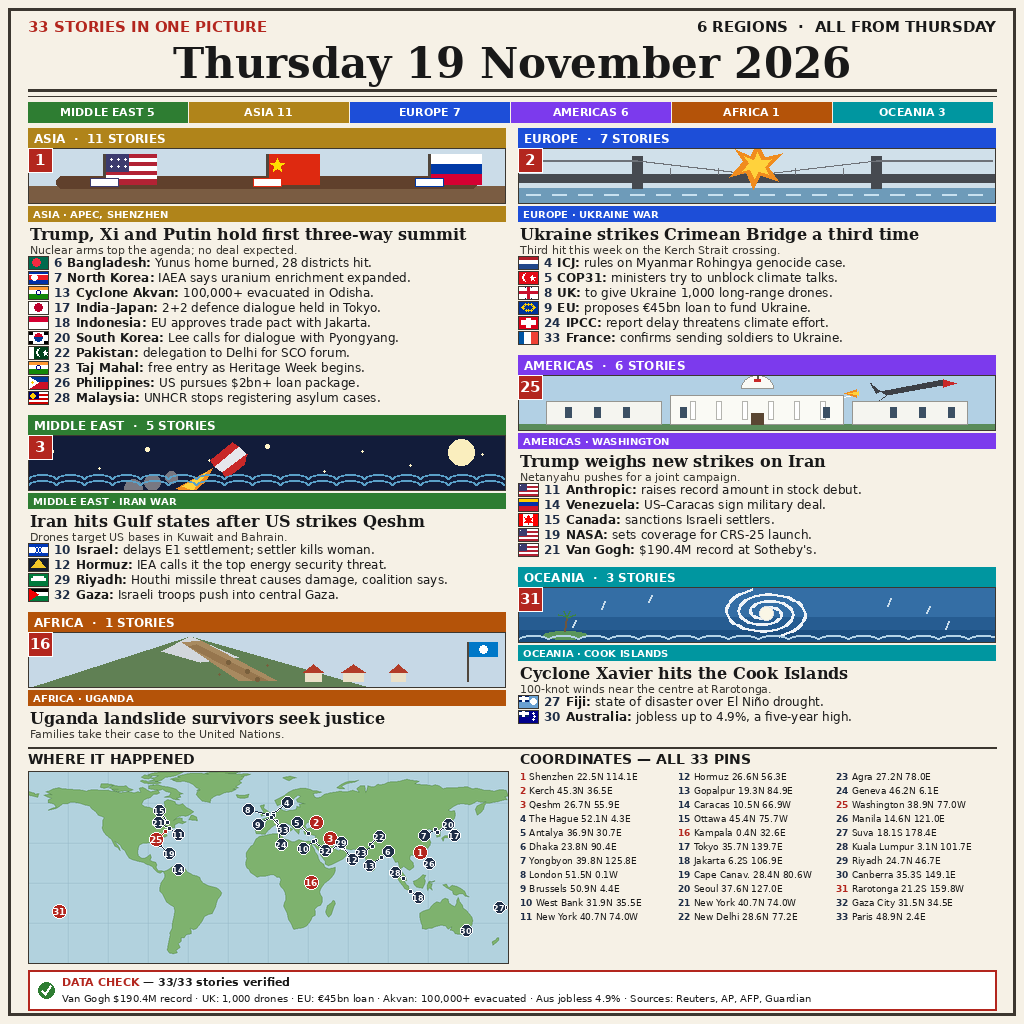
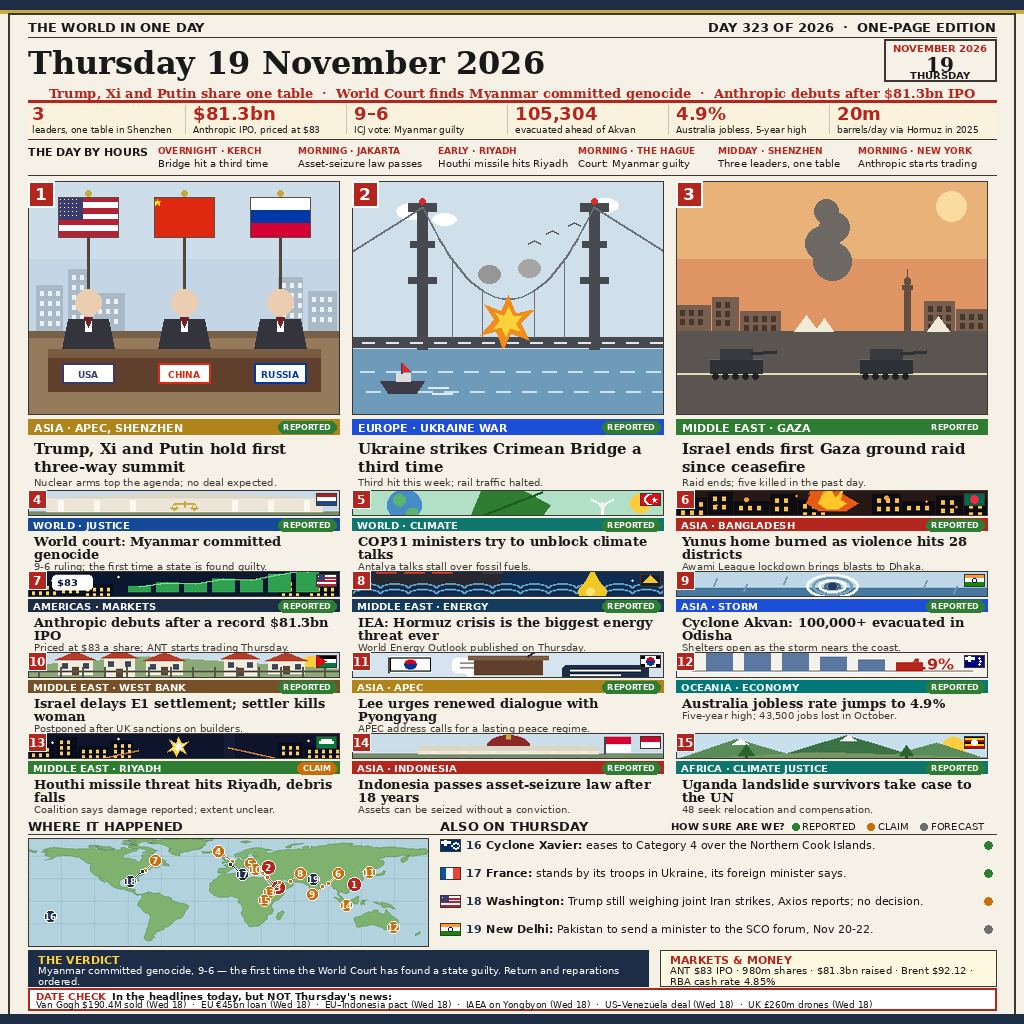
Replace entry with v3 newspaper entry

diff --git a/main.py b/main.py
@@ -1,23 +1,49 @@
 #!/usr/bin/env python3
-"""Copy entry.png to the grader output directory.
+"""Copy this entry's image to the grader output directory.
 
-The entry image is pre-rendered (see compose.py in the work directory);
-this program only places it where the grader expects it.
+Stdlib only. The entry image (entry.png, 1024x1024) lives next to this
+script in the repo; this script copies it byte-for-byte to
+MAKEFUN_OUTPUT_DIR (default /output) and never writes to the CWD.
 """
+import hashlib
 import os
 import shutil
+import sys
+
+HERE = os.path.dirname(os.path.abspath(__file__))
+SRC = os.path.join(HERE, "entry.png")
+
+
+def sha256_of(path):
+    h = hashlib.sha256()
+    with open(path, "rb") as f:
+        for chunk in iter(lambda: f.read(65536), b""):
+            h.update(chunk)
+    return h.hexdigest()
 
 
 def main():
-    """Copy entry.png next to this file into MAKEFUN_OUTPUT_DIR."""
-    src = os.path.join(os.path.dirname(os.path.abspath(__file__)),
-                       "entry.png")
+    if not os.path.isfile(SRC):
+        print(f"error: entry image not found next to this script: {SRC}",
+              file=sys.stderr)
+        return 1
     out_dir = os.environ.get("MAKEFUN_OUTPUT_DIR", "/output")
     os.makedirs(out_dir, exist_ok=True)
-    dest = os.path.join(out_dir, "entry.png")
-    shutil.copyfile(src, dest)
-    return dest
+    dst = os.path.join(out_dir, "entry.png")
+    shutil.copyfile(SRC, dst)
+    src_size = os.path.getsize(SRC)
+    dst_size = os.path.getsize(dst)
+    if src_size != dst_size:
+        print(f"error: size mismatch after copy: {src_size} != {dst_size}",
+              file=sys.stderr)
+        return 1
+    if sha256_of(SRC) != sha256_of(dst):
+        print("error: sha256 mismatch after copy", file=sys.stderr)
+        return 1
+    print(f"copied {SRC} -> {dst} ({dst_size} bytes)")
+    print(f"sha256 {sha256_of(dst)}")
+    return 0
 
 
 if __name__ == "__main__":
-    main()
+    sys.exit(main())

diff --git a/README.md b/README.md
@@ -1,34 +1,20 @@
-# Thursday 19 November 2026 — 33 Stories in One Picture
+[![make.fun](https://make.fun/badge/news-image-20261119.svg)](https://make.fun/bounty/news-image-20261119)
+[![Rank](https://make.fun/badge/news-image-20261119/fansevanoo/news-image-20261119-entry-acct3/rank.svg)](https://make.fun/bounty/news-image-20261119)
+[![Reward](https://make.fun/badge/news-image-20261119/fansevanoo/news-image-20261119-entry-acct3/reward.svg)](https://make.fun/bounty/news-image-20261119)
 
-[![news-image-20261119](https://make.fun/badge/news-image-20261119.svg)](https://make.fun/bounty/news-image-20261119)
-[![rank](https://make.fun/badge/news-image-20261119/fansevanoo/news-image-20261119-entry-acct3/rank.svg)](https://make.fun/bounty/news-image-20261119)
-[![reward](https://make.fun/badge/news-image-20261119/fansevanoo/news-image-20261119-entry-acct3/reward.svg)](https://make.fun/bounty/news-image-20261119)
+# Thursday 19 November 2026 — 19 Stories in One Picture
 
-One image summing up Thursday 19 November 2026 in world news — 33 stories,
-organised by region, not by rank.
+A one-page newspaper summing up Thursday 19 November 2026: three big
+hero stories (the first-ever Trump–Xi–Putin summit in Shenzhen, the third
+Ukrainian strike on the Crimean Bridge, and the end of the first Gaza ground
+raid since the ceasefire), twelve more stories in a grid, four briefs, and a
+world map with 19 numbered pins.
 
-## Formula: REGION-LED
+Every story on the page happened, or was first reported, on Thursday
+19 November 2026. Disputed claims are attributed, not stated as fact, and
+marked CLAIM; scheduled items are marked FORECAST. The DATE CHECK footer
+lists headline items that were *not* Thursday's news (they happened on
+Wednesday 18 November or earlier).
 
-Six regions, each with one lead story (full vector scene, headline, deck)
-and its briefs below:
-
-- **ASIA (11)** — lead: Trump, Xi and Putin hold their first three-way summit (Shenzhen)
-- **EUROPE (7)** — lead: Ukraine strikes the Crimean Bridge a third time (Kerch)
-- **MIDDLE EAST (5)** — lead: Iran hits Gulf states after US strikes on Qeshm
-- **AMERICAS (6)** — lead: Trump weighs new strikes on Iran (Washington)
-- **AFRICA (1)** — lead: Uganda landslide survivors seek justice at the UN (Kampala)
-- **OCEANIA (3)** — lead: Cyclone Xavier hits the Cook Islands (Rarotonga)
-
-Below: a full world map with all 33 numbered pins (red = region lead,
-navy = brief), a coordinate legend for every pin, and a DATA CHECK strip
-(33/33 stories verified against Reuters, AP, AFP and the Guardian).
-
-## Files
-
-- `entry.png` — the 1024×1024 image (PNG, under 1 MiB)
-- `main.py` — Python 3.13 stdlib-only; copies `entry.png` to
-  `MAKEFUN_OUTPUT_DIR` (default `/output`)
-
-## Licence
-
-MIT — see `LICENSE`.
+`entry.png` (1024×1024) is the entry image. `main.py` (Python 3.13 stdlib
+only) copies it to `MAKEFUN_OUTPUT_DIR` (default `/output`).
